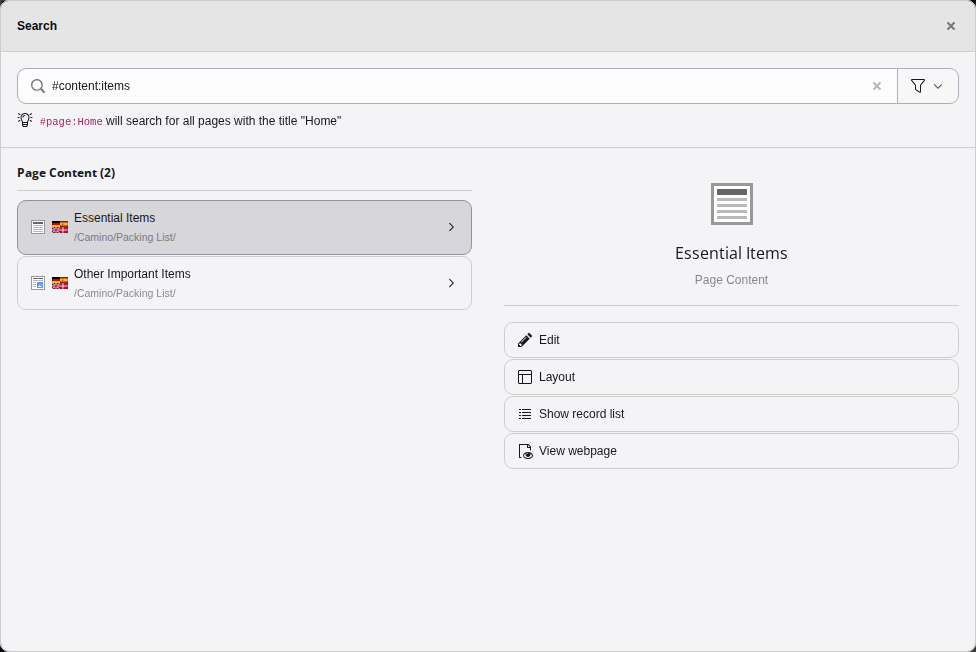
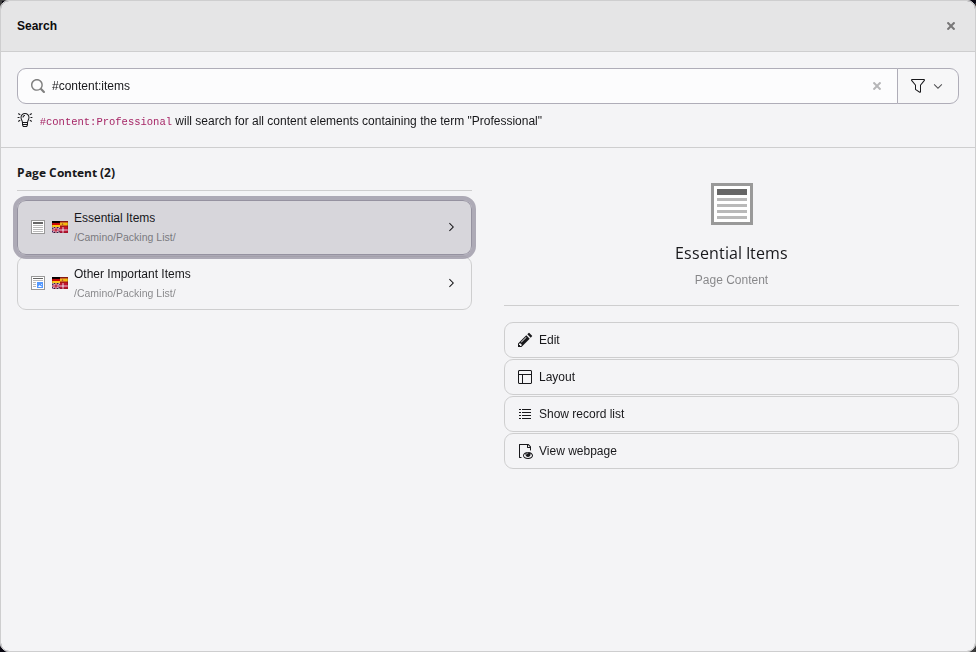
[TASK] Generate the screenshots of editing content (#377)
Take the screenshots of the chapter about editing content from the
TYPO3 instance as well. The error message after saving stays manual, as
it shows an error that only a bug causes. The live search shows a tip
picked at random, so its screenshot changed with every run. It now
waits for the same tip each time.

Releases: main
Assisted-by: Claude Opus 5.5 <noreply@anthropic.com>

Changed region(s): [[0.0, 0.2761, 0.4918, 0.3988], [0.0615, 0.1534, 0.4611, 0.2147], [0.4918, 0.184, 0.5533, 0.2147]]

diff --git a/Build/Screenshots/create-records.php b/Build/Screenshots/create-records.php
@@ -132,14 +132,34 @@ $connectionPool->getConnectionForTable('pages')->update('pages', ['TSconfig' => 
       }
     }
     TCEFORM.tt_content.CType.removeItems = camino_hero, camino_hero_small, camino_hero_text_only, camino_textteaser, camino_testimonial, camino_author, camino_textmedia_teaser, camino_textmedia_teaser_grid, camino_linklist, camino_sociallinks
+    # The media adjustments, which Camino hides, for the example of an input error
+    TCEFORM.tt_content {
+      imagewidth.disabled = 0
+      imageheight.disabled = 0
+      imageborder.disabled = 0
+    }
     TSCONFIG], ['uid' => $uids['stories']]);
-$process(['tt_content' => ['NEWstory' => [
+$dataHandler = $process(['tt_content' => ['NEWstory' => [
     'pid' => $uids['stories'],
     'colPos' => 0,
     'CType' => 'textmedia',
     'header' => 'Arriving in Santiago',
     'bodytext' => '<p>After weeks on the road, the first view of the cathedral towers makes every blister worth it.</p>',
 ]]]);
+$uids['story'] = $dataHandler->substNEWwithIDs['NEWstory'];
+// An element of a type that the common editor below may not edit. It comes
+// after the story, so the screenshots of creating content are not affected.
+$dataHandler = $process(['tt_content' => ['NEWmap' => [
+    'pid' => -$uids['story'],
+    'colPos' => 0,
+    'CType' => 'html',
+    'header' => 'Map of the stages',
+    'bodytext' => '<iframe src="https://example.org/map" title="Map of the stages"></iframe>',
+]]]);
+$uids['map'] = $dataHandler->substNEWwithIDs['NEWmap'];
+
+// The author card of the theme, whose name is a required field
+$uids['author'] = $find('tt_content', 'header', 'Elena Vásquez', $uids['routeComparison']);
 
 // The group of a common editor, who creates the typical content types,
 // lists and dividers, but no forms, menus, or plugins

diff --git a/Documentation/ContentElements/EditingContent/Index.rst b/Documentation/ContentElements/EditingContent/Index.rst
@@ -9,7 +9,7 @@ Editing content
 
 ------------
 
-..  image:: /Images/ManualScreenshots/ContentElements/EditContent.png
+..  image:: /Images/GeneratedScreenshots/ContentElements/EditContent.png
     :alt: Editing content elements in the TYPO3 backend
     :class: img-thumbnail float-end ms-1
     :width: 250
@@ -30,7 +30,7 @@ that you have permissions for. There might be additional settings that only an
 advanced editor or an administrator can see and edit. Those might be hidden to
 you.
 
-..  figure:: /Images/ManualScreenshots/ContentElements/ChangeText.png
+..  figure:: /Images/GeneratedScreenshots/ContentElements/ChangeText.png
     :alt: Content element edit form screenshot, demonstrating changed content which is highlighted
     :zoom: gallery
 
@@ -39,7 +39,7 @@ you.
 Content in the Content element forms is not auto-saved. If you try to leave
 a form that has changes you will be prompted to save:
 
-..  figure:: /Images/ManualScreenshots/ContentElements/SavingPrompt.png
+..  figure:: /Images/GeneratedScreenshots/ContentElements/SavingPrompt.png
     :alt: Prompt: Do you want to close without saving? You currently have unsaved changes. Are you sure you want to discard these changes?
     :zoom: gallery
 
@@ -62,7 +62,7 @@ Content element has no edit button
 If you have no permissions to change a content element, you will see that
 element in the overview but no edit, hide or delete button appears.
 
-..  figure:: /Images/ManualScreenshots/ContentElements/NoEdit.png
+..  figure:: /Images/GeneratedScreenshots/ContentElements/NoEdit.png
     :alt: A content element without an edit button
     :zoom: gallery
 
@@ -85,13 +85,13 @@ Content element does not get saved
 If one of the fields you edited contains an illegal value now or if you did
 not fill out a required field, you cannot save your changes.
 
-..  figure:: /Images/ManualScreenshots/ContentElements/RequiredField.png
+..  figure:: /Images/GeneratedScreenshots/ContentElements/RequiredField.png
     :alt: Screenshot of a required field
     :zoom: gallery
 
     A required field that has no value prevents saving of a content element
 
-..  figure:: /Images/ManualScreenshots/ContentElements/InputError.png
+..  figure:: /Images/GeneratedScreenshots/ContentElements/InputError.png
     :alt: Input error caused by a letter entered in a number field
     :zoom: gallery
 
@@ -140,7 +140,7 @@ Changing the type of an existing content element
 You can also change the content element type by selecting another element from
 the :guilabel:`Type` list.
 
-..  figure:: /Images/ManualScreenshots/ContentElements/ChangeType.png
+..  figure:: /Images/GeneratedScreenshots/ContentElements/ChangeType.png
     :alt: Edit form of a content element in the TYPO3 backend, demonstrating the location of the "Type" selector in tab General
     :zoom: gallery
 
@@ -149,7 +149,7 @@ the :guilabel:`Type` list.
 When you change a content element's type, the TYPO3 backend wants to reload
 the screen to display different input fields, you are prompted first:
 
-..  figure:: /Images/ManualScreenshots/ContentElements/RefreshRequired.png
+..  figure:: /Images/GeneratedScreenshots/ContentElements/RefreshRequired.png
     :alt: Edit form of a content element in the TYPO3 backend, demonstrating the location of the "Type" selector in tab General
     :zoom: gallery
 

diff --git a/AGENTS.md b/AGENTS.md
@@ -52,9 +52,12 @@ To add a screenshot:
     `Content` by default, stays open and every other group is collapsed.
     Its page tree is hidden unless `pageTree: true`, and an `until`
     element ends the image below the part that matters. Use `prepare`
-    for clicks before the screenshot. A view whose route needs a token,
-    such as the history, cannot be opened by its URL; `prepare` opens it
-    through the backend, the way an editor does.
+    for clicks before the screenshot, and `tab` for the tab of a form,
+    which the backend would otherwise remember from the last screenshot.
+    A view whose route needs a token, such as the history, cannot be
+    opened by its URL; `prepare` opens it through the backend, the way an
+    editor does. Something the backend picks at random, such as the tip of
+    the live search, is reopened until it shows the same thing every run.
 3.  Take only that screenshot, then all of them once, and commit only the
     images that really changed.
 4.  Screenshots that a script cannot take, such as one during drag and

diff --git a/Documentation/ContentElements/Index.rst b/Documentation/ContentElements/Index.rst
@@ -23,7 +23,7 @@ Content elements
 
     ..  card:: :ref:`Editing Content<content-editing>`
 
-        ..  card-image:: /Images/ManualScreenshots/ContentElements/EditContent.png
+        ..  card-image:: /Images/GeneratedScreenshots/ContentElements/EditContent.png
             :alt: Editing content elements in the TYPO3 backend
 
         Want to change a content element's type? This chapter contains information on
